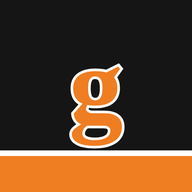
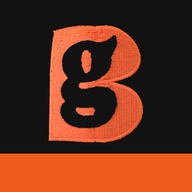
실제 모자 로고로 앱 아이콘·팀 마크 교체
Claude-Session: https://claude.ai/code/session_01MiU2bxi9p7TMxbirvSDMuK

diff --git a/glo.html b/glo.html
@@ -156,7 +156,7 @@ body.self .olg{border-radius:8px}
 </main>
 <script>
 {
-const D={"ext": {"박민수(13)": ["29", "19", "12", "10", "3", "8", "2", "3", "2.67", "0", "0", "0", "0", "3", "0"], "김종원(7)": ["37", "28", "17", "11", "19", "9", "0", "3", "3.00", "0", "0", "0", "0", "5", "0"], "박일우(11)": ["32", "21", "9", "13", "10", "8", "3", "3", "2.67", "0", "0", "0", "0", "2", "0"], "박정일(5)": ["25", "14", "6", "5", "8", "5", "4", "2", "2.50", "0", "2", "0", "0", "0", "0"], "강용진(8)": ["22", "18", "7", "2", "11", "2", "1", "4", "0.50", "0", "1", "0", "0", "2", "0"], "박종원(0)": ["23", "16", "6", "5", "3", "6", "1", "9", "0.67", "0", "0", "0", "1", "1", "0"], "이장욱(10)": ["35", "27", "6", "7", "7", "7", "0", "8", "0.88", "0", "1", "0", "0", "1", "0"], "김태환(30)": ["31", "26", "5", "5", "4", "5", "0", "8", "0.63", "0", "0", "0", "0", "0", "0"], "이준환(26)": ["15", "11", "4", "4", "3", "4", "0", "4", "1.00", "0", "0", "0", "0", "1", "0"], "이상운(35)": ["4", "3", "1", "1", "0", "1", "0", "2", "0.50", "0", "0", "0", "0", "0", "0"], "조의제(44)": ["14", "7", "2", "5", "3", "5", "2", "2", "2.50", "0", "0", "0", "0", "0", "0"], "차현민(14)": ["11", "8", "2", "4", "2", "0", "3", "4", "0.00", "0", "0", "0", "0", "0", "0"], "김태수(77)": ["17", "13", "3", "6", "3", "4", "0", "3", "1.33", "0", "0", "0", "0", "1", "0"], "박정군(18)": ["13", "9", "2", "0", "1", "3", "1", "1", "3.00", "0", "0", "0", "0", "0", "0"], "신동철(12)": ["11", "10", "2", "3", "2", "1", "0", "7", "0.14", "0", "0", "1", "0", "0", "0"], "안승현(25)": ["3", "2", "0", "1", "0", "0", "1", "1", "0.00", "0", "0", "0", "0", "0", "0"], "정도은(6)": ["3", "2", "0", "0", "0", "1", "0", "1", "1.00", "0", "0", "0", "0", "0", "0"]}, "pext": {"김태수(77)": ["4", "4", "0", "0", "176", "158", "609", "49", "19", "0", "1", "0"], "정도은(6)": ["2", "1", "1", "0", "68", "47", "277", "14", "5", "0", "0", "0"], "박민수(13)": ["0", "0", "0", "0", "14", "11", "49", "4", "4", "0", "0", "0"], "강용진(8)": ["0", "0", "0", "0", "5", "5", "16", "2", "2", "0", "0", "0"], "차현민(14)": ["0", "0", "0", "0", "8", "6", "28", "6", "5", "1", "0", "0"]}, "logo": "icon-192.png", "title": "글로베어스 선수 기록", "mode": "pre", "inn": "", "opp": "글로베어스", "self": true, "sub": "2026 시즌 타자·투수 기록과 타구 분포 · 게임원 공식 기록 기준", "basis": "데이터: 게임원 글로베어스 2026 시즌 전체 기록 12경기 · 2026.11.27 수집", "orderLabel": "게임원 기록 순", "raw": "박민수(13)|우투우타|10|0.632|0.759|0.842|1.601|4|0|0|15|AFLcIIFDFLLZALU\n김종원(7)|우투우타|12|0.607|0.703|1.000|1.703|5|0|2|9|oAZZ5RZrDzArofzZFrEfDL\n박일우(11)|우투우타|11|0.429|0.625|0.619|1.244|4|0|0|10|cLEDDfzDFFDXZLA\n박정일(5)|좌투좌타|9|0.429|0.600|0.571|1.171|2|0|0|3|occcIrrFczrzt\n강용진(8)|우투우타|7|0.389|0.455|0.611|1.066|2|1|0|2|YotFrIIIwLLLX\n박종원(0)|우투우타|9|0.375|0.565|0.438|1.003|1|0|0|5|ZrfZFF\n이장욱(10)|우투우타|12|0.222|0.371|0.259|0.630|1|0|0|3|FFEFrXDIErLXIcF\n김태환(30)|우투우타|12|0.192|0.323|0.192|0.515|0|0|0|5|rXortrFDDXrAsr\n이준환(26)|우투우타|5|0.364|0.533|0.636|1.169|1|1|0|1|tEDzZDL\n이상운(35)|우투우타|2|0.333|0.500|0.333|0.833|0|0|0|0|A\n조의제(44)||6|0.286|0.643|0.286|0.929|0|0|0|1|FrAE\n차현민(14)|우투우타|4|0.250|0.455|0.375|0.830|1|0|0|4|ZrL\n김태수(77)|우투우타|6|0.231|0.412|0.231|0.643|0|0|0|1|IEZFDFD\n박정군(18)|좌투좌타|6|0.222|0.462|0.222|0.684|0|0|0|1|XDrrtXr\n신동철(12)||8|0.200|0.273|0.200|0.473|0|0|0|2|FDZ\n안승현(25)|우투우타|1|0.000|0.333|0.000|0.333|0|0|0|0|\n정도은(6)|우투우타|1|0.000|0.333|0.000|0.333|0|0|0|0|c", "roster": [{"o": "", "pos": "중", "nm": "박민수(13)", "memo": "주 타순 1번(7회) · 최근 5경기 4회 출전"}, {"o": "", "pos": "유", "nm": "김종원(7)", "memo": "주 타순 3번(12회) · 최근 5경기 5회 출전"}, {"o": "", "pos": "포", "nm": "박일우(11)", "memo": "주 타순 2번(9회) · 최근 5경기 5회 출전"}, {"o": "", "pos": "一", "nm": "박정일(5)", "memo": "주 타순 4번(9회) · 최근 5경기 5회 출전"}, {"o": "", "pos": "좌", "nm": "강용진(8)", "memo": "주 타순 5번(5회) · 최근 5경기 5회 출전"}, {"o": "", "pos": "좌", "nm": "박종원(0)", "memo": "주 타순 5번(3회) · 최근 5경기 4회 출전"}, {"o": "", "pos": "二", "nm": "이장욱(10)", "memo": "주 타순 6번(6회) · 최근 5경기 5회 출전"}, {"o": "", "pos": "지", "nm": "김태환(30)", "memo": "주 타순 8번(5회) · 최근 5경기 5회 출전"}, {"o": "", "pos": "포", "nm": "이준환(26)", "memo": "주 타순 7번(2회) · 최근 5경기 1회 출전"}, {"o": "", "pos": "중", "nm": "조의제(44)", "memo": "주 타순 6번(3회) · 최근 5경기 1회 출전"}, {"o": "", "pos": "중", "nm": "차현민(14)", "memo": "주 타순 1번(3회) · 최근 5경기 2회 출전"}, {"o": "", "pos": "三", "nm": "김태수(77)", "memo": "주 타순 7번(2회) · 최근 5경기 3회 출전"}, {"o": "", "pos": "우", "nm": "박정군(18)", "memo": "주 타순 8번(3회) · 최근 5경기 3회 출전"}, {"o": "", "pos": "지", "nm": "신동철(12)", "memo": "주 타순 9번(3회) · 최근 5경기 1회 출전"}, {"o": "", "pos": "三", "nm": "정도은(6)", "memo": "주 타순 8번(1회) · 최근 5경기 1회 출전"}, {"o": "", "pos": "좌", "nm": "이상운(35)", "memo": "주 타순 9번(2회) · 최근 5경기 0회 출전"}, {"o": "", "pos": "중", "nm": "안승현(25)", "memo": "주 타순 1번(1회) · 최근 5경기 0회 출전"}], "pit": [{"nm": "김태수(77)", "role": "('26) 10경기", "ERA": "4.34", "G": 10, "IP": "30.2", "H": 64, "HR": 3, "BB": 13, "HBP": 4, "SO": 40, "WHIP": "2.51", "OAVG": "0.405", "K7": "9.13"}, {"nm": "정도은(6)", "role": "('26) 5경기", "ERA": "2.39", "G": 5, "IP": "14.2", "H": 12, "HR": 0, "BB": 15, "HBP": 3, "SO": 19, "WHIP": "1.84", "OAVG": "0.255", "K7": "9.07"}, {"nm": "박민수(13)", "role": "('26) 2경기", "ERA": "12.02", "G": 2, "IP": "2.1", "H": 4, "HR": 1, "BB": 3, "HBP": 0, "SO": 4, "WHIP": "3.00", "OAVG": "0.364", "K7": "12.00"}, {"nm": "강용진(8)", "role": "('26) 1경기", "ERA": "21.21", "G": 1, "IP": "0.2", "H": 4, "HR": 0, "BB": 0, "HBP": 0, "SO": 1, "WHIP": "6.06", "OAVG": "0.800", "K7": "10.50"}, {"nm": "차현민(14)", "role": "('26) 1경기", "ERA": "106.06", "G": 1, "IP": "0.1", "H": 5, "HR": 0, "BB": 2, "HBP": 0, "SO": 0, "WHIP": "21.21", "OAVG": "0.833", "K7": "0.00"}], "h2h": [], "links": [{"label": "팀 홈", "href": "https://www.gameone.kr/club/?club_idx=25486"}, {"label": "리그 홈", "href": "https://www.gameone.kr/league/?lig_idx=10894"}], "games": [{"href": "index.html", "label": "2027 경기 일정 전체"}, {"href": "swains.html", "md": "1/16", "wd": "14:00", "ts": "2027-01-16T14:00:00+09:00", "vn": "고", "label": "스웨인즈", "logo": "https://file.gameone.kr/symbol/club/20160106090534_083_thumb.png"}, {"href": "sbastards.html", "md": "1/23", "wd": "12:00", "ts": "2027-01-23T12:00:00+09:00", "vn": "고", "label": "S. Bastards", "logo": "https://file.gameone.kr/symbol/club/20261125131838_582_thumb.png"}, {"href": "dasl.html", "md": "2/20", "wd": "17:00", "ts": "2027-02-20T17:00:00+09:00", "vn": "고", "label": "다슬기스 YB", "logo": "https://file.gameone.kr/symbol/club/symbol8666.jpg"}, {"href": "swains.html", "md": "3/6", "wd": "17:00", "ts": "2027-03-06T17:00:00+09:00", "vn": "중", "label": "스웨인즈", "logo": "https://file.gameone.kr/symbol/club/20160106090534_083_thumb.png"}, {"href": "kartel.html", "md": "3/13", "wd": "17:00", "ts": "2027-03-13T17:00:00+09:00", "vn": "중", "label": "카르텔즈", "logo": "https://file.gameone.kr/symbol/club/20230216235745_171_thumb.png"}, {"href": "chicago2.html", "md": "4/3", "wd": "17:00", "ts": "2027-04-03T17:00:00+09:00", "vn": "고", "label": "시카고컵스2", "logo": ""}, {"href": "gyb.html", "md": "4/24", "wd": "07:00", "ts": "2027-04-24T07:00:00+09:00", "vn": "중", "label": "GYB", "logo": "https://file.gameone.kr/symbol/club/20251226142734_080_thumb.png"}, {"href": "gamb.html", "md": "5/1", "wd": "07:00", "ts": "2027-05-01T07:00:00+09:00", "vn": "고", "label": "놀음꾼들(Gamebler's)", "logo": "https://file.gameone.kr/symbol/club/20230618141746_509_thumb.gif"}, {"href": "chicago2.html", "md": "5/8", "wd": "13:00", "ts": "2027-05-08T13:00:00+09:00", "vn": "고", "label": "시카고컵스2", "logo": ""}, {"href": "mav.html", "md": "5/29", "wd": "13:00", "ts": "2027-05-29T13:00:00+09:00", "vn": "고", "label": "Mavericks", "logo": "https://file.gameone.kr/symbol/club/20230124223319_034_thumb.png"}, {"href": "bugs.html", "md": "6/5", "wd": "07:00", "ts": "2027-06-05T07:00:00+09:00", "vn": "중", "label": "벅스", "logo": "https://file.gameone.kr/symbol/club/20250501155303_022_thumb.png"}, {"href": "bok.html", "md": "6/12", "wd": "07:00", "ts": "2027-06-12T07:00:00+09:00", "vn": "중", "label": "한국은행 야구부", "logo": "https://file.gameone.kr/symbol/club/symbol17080.jpg"}, {"href": "glo.html", "label": "글로베어스 선수 기록"}, {"href": "sample.html", "label": "샘플 · 라인업 반영 화면"}, {"href": "live07.html", "label": "● 라이브 11.28 07:00 사구홀릭", "live": true, "lmd": "11/28", "lwd": "07:00", "lop": "사구홀릭 vs 놀음꾼들", "lus": "사구홀릭", "logo": "https://file.gameone.kr/symbol/club/symbol9444.jpg"}, {"href": "live13.html", "label": "● 라이브 11.28 13:00 RED ONE", "live": true, "lmd": "11/28", "lwd": "13:00", "lop": "RED ONE vs 놀음꾼들", "lus": "RED ONE", "logo": "https://file.gameone.kr/symbol/club/20231210211054_417_thumb.jpg"}, {"href": "live15.html", "label": "● 라이브 11.28 15:00 사구홀릭", "live": true, "lmd": "11/28", "lwd": "15:00", "lop": "사구홀릭 vs 놀음꾼들", "lus": "사구홀릭", "logo": "https://file.gameone.kr/symbol/club/symbol9444.jpg"}]};
+const D={"ext": {"박민수(13)": ["29", "19", "12", "10", "3", "8", "2", "3", "2.67", "0", "0", "0", "0", "3", "0"], "김종원(7)": ["37", "28", "17", "11", "19", "9", "0", "3", "3.00", "0", "0", "0", "0", "5", "0"], "박일우(11)": ["32", "21", "9", "13", "10", "8", "3", "3", "2.67", "0", "0", "0", "0", "2", "0"], "박정일(5)": ["25", "14", "6", "5", "8", "5", "4", "2", "2.50", "0", "2", "0", "0", "0", "0"], "강용진(8)": ["22", "18", "7", "2", "11", "2", "1", "4", "0.50", "0", "1", "0", "0", "2", "0"], "박종원(0)": ["23", "16", "6", "5", "3", "6", "1", "9", "0.67", "0", "0", "0", "1", "1", "0"], "이장욱(10)": ["35", "27", "6", "7", "7", "7", "0", "8", "0.88", "0", "1", "0", "0", "1", "0"], "김태환(30)": ["31", "26", "5", "5", "4", "5", "0", "8", "0.63", "0", "0", "0", "0", "0", "0"], "이준환(26)": ["15", "11", "4", "4", "3", "4", "0", "4", "1.00", "0", "0", "0", "0", "1", "0"], "이상운(35)": ["4", "3", "1", "1", "0", "1", "0", "2", "0.50", "0", "0", "0", "0", "0", "0"], "조의제(44)": ["14", "7", "2", "5", "3", "5", "2", "2", "2.50", "0", "0", "0", "0", "0", "0"], "차현민(14)": ["11", "8", "2", "4", "2", "0", "3", "4", "0.00", "0", "0", "0", "0", "0", "0"], "김태수(77)": ["17", "13", "3", "6", "3", "4", "0", "3", "1.33", "0", "0", "0", "0", "1", "0"], "박정군(18)": ["13", "9", "2", "0", "1", "3", "1", "1", "3.00", "0", "0", "0", "0", "0", "0"], "신동철(12)": ["11", "10", "2", "3", "2", "1", "0", "7", "0.14", "0", "0", "1", "0", "0", "0"], "안승현(25)": ["3", "2", "0", "1", "0", "0", "1", "1", "0.00", "0", "0", "0", "0", "0", "0"], "정도은(6)": ["3", "2", "0", "0", "0", "1", "0", "1", "1.00", "0", "0", "0", "0", "0", "0"]}, "pext": {"김태수(77)": ["4", "4", "0", "0", "176", "158", "609", "49", "19", "0", "1", "0"], "정도은(6)": ["2", "1", "1", "0", "68", "47", "277", "14", "5", "0", "0", "0"], "박민수(13)": ["0", "0", "0", "0", "14", "11", "49", "4", "4", "0", "0", "0"], "강용진(8)": ["0", "0", "0", "0", "5", "5", "16", "2", "2", "0", "0", "0"], "차현민(14)": ["0", "0", "0", "0", "8", "6", "28", "6", "5", "1", "0", "0"]}, "logo": "gmark.png", "title": "글로베어스 선수 기록", "mode": "pre", "inn": "", "opp": "글로베어스", "self": true, "sub": "2026 시즌 타자·투수 기록과 타구 분포 · 게임원 공식 기록 기준", "basis": "데이터: 게임원 글로베어스 2026 시즌 전체 기록 12경기 · 2026.11.27 수집", "orderLabel": "게임원 기록 순", "raw": "박민수(13)|우투우타|10|0.632|0.759|0.842|1.601|4|0|0|15|AFLcIIFDFLLZALU\n김종원(7)|우투우타|12|0.607|0.703|1.000|1.703|5|0|2|9|oAZZ5RZrDzArofzZFrEfDL\n박일우(11)|우투우타|11|0.429|0.625|0.619|1.244|4|0|0|10|cLEDDfzDFFDXZLA\n박정일(5)|좌투좌타|9|0.429|0.600|0.571|1.171|2|0|0|3|occcIrrFczrzt\n강용진(8)|우투우타|7|0.389|0.455|0.611|1.066|2|1|0|2|YotFrIIIwLLLX\n박종원(0)|우투우타|9|0.375|0.565|0.438|1.003|1|0|0|5|ZrfZFF\n이장욱(10)|우투우타|12|0.222|0.371|0.259|0.630|1|0|0|3|FFEFrXDIErLXIcF\n김태환(30)|우투우타|12|0.192|0.323|0.192|0.515|0|0|0|5|rXortrFDDXrAsr\n이준환(26)|우투우타|5|0.364|0.533|0.636|1.169|1|1|0|1|tEDzZDL\n이상운(35)|우투우타|2|0.333|0.500|0.333|0.833|0|0|0|0|A\n조의제(44)||6|0.286|0.643|0.286|0.929|0|0|0|1|FrAE\n차현민(14)|우투우타|4|0.250|0.455|0.375|0.830|1|0|0|4|ZrL\n김태수(77)|우투우타|6|0.231|0.412|0.231|0.643|0|0|0|1|IEZFDFD\n박정군(18)|좌투좌타|6|0.222|0.462|0.222|0.684|0|0|0|1|XDrrtXr\n신동철(12)||8|0.200|0.273|0.200|0.473|0|0|0|2|FDZ\n안승현(25)|우투우타|1|0.000|0.333|0.000|0.333|0|0|0|0|\n정도은(6)|우투우타|1|0.000|0.333|0.000|0.333|0|0|0|0|c", "roster": [{"o": "", "pos": "중", "nm": "박민수(13)", "memo": "주 타순 1번(7회) · 최근 5경기 4회 출전"}, {"o": "", "pos": "유", "nm": "김종원(7)", "memo": "주 타순 3번(12회) · 최근 5경기 5회 출전"}, {"o": "", "pos": "포", "nm": "박일우(11)", "memo": "주 타순 2번(9회) · 최근 5경기 5회 출전"}, {"o": "", "pos": "一", "nm": "박정일(5)", "memo": "주 타순 4번(9회) · 최근 5경기 5회 출전"}, {"o": "", "pos": "좌", "nm": "강용진(8)", "memo": "주 타순 5번(5회) · 최근 5경기 5회 출전"}, {"o": "", "pos": "좌", "nm": "박종원(0)", "memo": "주 타순 5번(3회) · 최근 5경기 4회 출전"}, {"o": "", "pos": "二", "nm": "이장욱(10)", "memo": "주 타순 6번(6회) · 최근 5경기 5회 출전"}, {"o": "", "pos": "지", "nm": "김태환(30)", "memo": "주 타순 8번(5회) · 최근 5경기 5회 출전"}, {"o": "", "pos": "포", "nm": "이준환(26)", "memo": "주 타순 7번(2회) · 최근 5경기 1회 출전"}, {"o": "", "pos": "중", "nm": "조의제(44)", "memo": "주 타순 6번(3회) · 최근 5경기 1회 출전"}, {"o": "", "pos": "중", "nm": "차현민(14)", "memo": "주 타순 1번(3회) · 최근 5경기 2회 출전"}, {"o": "", "pos": "三", "nm": "김태수(77)", "memo": "주 타순 7번(2회) · 최근 5경기 3회 출전"}, {"o": "", "pos": "우", "nm": "박정군(18)", "memo": "주 타순 8번(3회) · 최근 5경기 3회 출전"}, {"o": "", "pos": "지", "nm": "신동철(12)", "memo": "주 타순 9번(3회) · 최근 5경기 1회 출전"}, {"o": "", "pos": "三", "nm": "정도은(6)", "memo": "주 타순 8번(1회) · 최근 5경기 1회 출전"}, {"o": "", "pos": "좌", "nm": "이상운(35)", "memo": "주 타순 9번(2회) · 최근 5경기 0회 출전"}, {"o": "", "pos": "중", "nm": "안승현(25)", "memo": "주 타순 1번(1회) · 최근 5경기 0회 출전"}], "pit": [{"nm": "김태수(77)", "role": "('26) 10경기", "ERA": "4.34", "G": 10, "IP": "30.2", "H": 64, "HR": 3, "BB": 13, "HBP": 4, "SO": 40, "WHIP": "2.51", "OAVG": "0.405", "K7": "9.13"}, {"nm": "정도은(6)", "role": "('26) 5경기", "ERA": "2.39", "G": 5, "IP": "14.2", "H": 12, "HR": 0, "BB": 15, "HBP": 3, "SO": 19, "WHIP": "1.84", "OAVG": "0.255", "K7": "9.07"}, {"nm": "박민수(13)", "role": "('26) 2경기", "ERA": "12.02", "G": 2, "IP": "2.1", "H": 4, "HR": 1, "BB": 3, "HBP": 0, "SO": 4, "WHIP": "3.00", "OAVG": "0.364", "K7": "12.00"}, {"nm": "강용진(8)", "role": "('26) 1경기", "ERA": "21.21", "G": 1, "IP": "0.2", "H": 4, "HR": 0, "BB": 0, "HBP": 0, "SO": 1, "WHIP": "6.06", "OAVG": "0.800", "K7": "10.50"}, {"nm": "차현민(14)", "role": "('26) 1경기", "ERA": "106.06", "G": 1, "IP": "0.1", "H": 5, "HR": 0, "BB": 2, "HBP": 0, "SO": 0, "WHIP": "21.21", "OAVG": "0.833", "K7": "0.00"}], "h2h": [], "links": [{"label": "팀 홈", "href": "https://www.gameone.kr/club/?club_idx=25486"}, {"label": "리그 홈", "href": "https://www.gameone.kr/league/?lig_idx=10894"}], "games": [{"href": "index.html", "label": "2027 경기 일정 전체"}, {"href": "swains.html", "md": "1/16", "wd": "14:00", "ts": "2027-01-16T14:00:00+09:00", "vn": "고", "label": "스웨인즈", "logo": "https://file.gameone.kr/symbol/club/20160106090534_083_thumb.png"}, {"href": "sbastards.html", "md": "1/23", "wd": "12:00", "ts": "2027-01-23T12:00:00+09:00", "vn": "고", "label": "S. Bastards", "logo": "https://file.gameone.kr/symbol/club/20261125131838_582_thumb.png"}, {"href": "dasl.html", "md": "2/20", "wd": "17:00", "ts": "2027-02-20T17:00:00+09:00", "vn": "고", "label": "다슬기스 YB", "logo": "https://file.gameone.kr/symbol/club/symbol8666.jpg"}, {"href": "swains.html", "md": "3/6", "wd": "17:00", "ts": "2027-03-06T17:00:00+09:00", "vn": "중", "label": "스웨인즈", "logo": "https://file.gameone.kr/symbol/club/20160106090534_083_thumb.png"}, {"href": "kartel.html", "md": "3/13", "wd": "17:00", "ts": "2027-03-13T17:00:00+09:00", "vn": "중", "label": "카르텔즈", "logo": "https://file.gameone.kr/symbol/club/20230216235745_171_thumb.png"}, {"href": "chicago2.html", "md": "4/3", "wd": "17:00", "ts": "2027-04-03T17:00:00+09:00", "vn": "고", "label": "시카고컵스2", "logo": ""}, {"href": "gyb.html", "md": "4/24", "wd": "07:00", "ts": "2027-04-24T07:00:00+09:00", "vn": "중", "label": "GYB", "logo": "https://file.gameone.kr/symbol/club/20251226142734_080_thumb.png"}, {"href": "gamb.html", "md": "5/1", "wd": "07:00", "ts": "2027-05-01T07:00:00+09:00", "vn": "고", "label": "놀음꾼들(Gamebler's)", "logo": "https://file.gameone.kr/symbol/club/20230618141746_509_thumb.gif"}, {"href": "chicago2.html", "md": "5/8", "wd": "13:00", "ts": "2027-05-08T13:00:00+09:00", "vn": "고", "label": "시카고컵스2", "logo": ""}, {"href": "mav.html", "md": "5/29", "wd": "13:00", "ts": "2027-05-29T13:00:00+09:00", "vn": "고", "label": "Mavericks", "logo": "https://file.gameone.kr/symbol/club/20230124223319_034_thumb.png"}, {"href": "bugs.html", "md": "6/5", "wd": "07:00", "ts": "2027-06-05T07:00:00+09:00", "vn": "중", "label": "벅스", "logo": "https://file.gameone.kr/symbol/club/20250501155303_022_thumb.png"}, {"href": "bok.html", "md": "6/12", "wd": "07:00", "ts": "2027-06-12T07:00:00+09:00", "vn": "중", "label": "한국은행 야구부", "logo": "https://file.gameone.kr/symbol/club/symbol17080.jpg"}, {"href": "glo.html", "label": "글로베어스 선수 기록"}, {"href": "sample.html", "label": "샘플 · 라인업 반영 화면"}, {"href": "live07.html", "label": "● 라이브 11.28 07:00 사구홀릭", "live": true, "lmd": "11/28", "lwd": "07:00", "lop": "사구홀릭 vs 놀음꾼들", "lus": "사구홀릭", "logo": "https://file.gameone.kr/symbol/club/symbol9444.jpg"}, {"href": "live13.html", "label": "● 라이브 11.28 13:00 RED ONE", "live": true, "lmd": "11/28", "lwd": "13:00", "lop": "RED ONE vs 놀음꾼들", "lus": "RED ONE", "logo": "https://file.gameone.kr/symbol/club/20231210211054_417_thumb.jpg"}, {"href": "live15.html", "label": "● 라이브 11.28 15:00 사구홀릭", "live": true, "lmd": "11/28", "lwd": "15:00", "lop": "사구홀릭 vs 놀음꾼들", "lus": "사구홀릭", "logo": "https://file.gameone.kr/symbol/club/symbol9444.jpg"}]};
 const A='ABCDEFGHIJKLMNOPQRSTUVWXYZabcdefghijklmnopqrstuvwxyz0123456789',TY=['s','x','h','o','e'];
 const P={};
 D.raw.split('\n').forEach(l=>{const f=l.split('|');P[f[0]]={nm:f[0],bt:f[1],G:+f[2],AVG:f[3],OBP:f[4],SLG:f[5],OPS:f[6],D:+f[7],T:+f[8],HR:+f[9],SB:+f[10],extra:f[12]||'',balls:[...(f[11]||'')].map(ch=>{const i=A.indexOf(ch);return{dir:Math.floor(i/20),depth:Math.floor((i%20)/5),t:TY[i%5]}})}});
@@ -270,7 +270,7 @@ document.getElementById('h2h').innerHTML=(D.h2h||[]).length?D.h2h.map(g=>{const 
  return`<details><summary><span>${esc(g.date)} ${esc(g.place)} · ${esc(g.score)}<span class="res ${rc}">${esc(g.result)}</span></span></summary><div class="dt">
  <div class="sb"><table><thead><tr>${hd}</tr></thead><tbody>${rows}</tbody></table></div>
  ${pitT(g.pitch,D.opp+' 투수')}${batT(g.bat,D.opp+' 타자')}${g.ourpitch?pitT(g.ourpitch,'글로베어스 투수'):''}${g.ourbat?batT(g.ourbat,'글로베어스 타자'):''}</div></details>`}).join(''):`<div class="pc note" style="margin:0">2026년 맞대결 기록이 없습니다.</div>`;
-if(D.self){document.body.classList.add('self');const ys=document.createElement('div');ys.className='yseg';ys.innerHTML=`<button disabled aria-pressed="false">27년 · 시즌 시작 후 추가</button><button aria-pressed="true">26년 기록</button>`;document.getElementById('glinks').after(ys);document.getElementById('pitHead').textContent='글로베어스 투수 26년 기록';document.getElementById('fullHead').innerHTML=`글로베어스 타자 26년 기록 <span class="cnt">${esc(D.orderLabel||'')} · ${(D.roster||[]).length}명</span>`;['h2hHead','h2h','sbHead','sbBox','liveOpp'].forEach(i=>{const e=document.getElementById(i);if(e)e.hidden=true});const st=document.createElement('style');st.textContent='.atk{display:none}';document.head.appendChild(st);document.getElementById('title').textContent='글로베어스 선수 기록'}
+if(D.self){document.body.classList.add('self');const ys=document.createElement('div');ys.className='yseg';ys.innerHTML=`<button disabled aria-pressed="false">27년 · 시즌 시작 후 추가</button><button aria-pressed="true">26년 기록</button>`;document.getElementById('glinks').after(ys);document.getElementById('pitHead').textContent=(D.teamName||'글로베어스')+' 투수 26년 기록';document.getElementById('fullHead').innerHTML=`${esc(D.teamName||'글로베어스')} 타자 26년 기록 <span class="cnt">${esc(D.orderLabel||'')} · ${(D.roster||[]).length}명</span>`;['h2hHead','h2h','sbHead','sbBox','liveOpp'].forEach(i=>{const e=document.getElementById(i);if(e)e.hidden=true});const st=document.createElement('style');st.textContent='.atk{display:none}';document.head.appendChild(st);document.getElementById('title').textContent=(D.teamName||'글로베어스')+' 선수 기록'}
 if(typeof LV!=='undefined'&&LV&&!D.feed)liveAll();
 if(D.feed){(()=>{
 const F=D.feed,OPPRE=new RegExp(F.oppRe),$=id=>document.getElementById(id),GO='https://www.gameone.kr';

diff --git a/index.html b/index.html
@@ -29,7 +29,7 @@ h2.sec{font-size:16px;margin:6px 2px 8px}.ib{display:inline-grid;place-items:cen
 <header><img class="hlogo" src="logo.png" alt="글로베어스" width="52" height="57"><div><h1>글로베어스 2027 경기 일정 · 상대 전력분석</h1><p>서울 성남고리그 토요리그(C조)</p></div><div class="hl"><a href="https://www.gameone.kr/club/?club_idx=25486" target="_blank" rel="noopener">우리 팀</a><a href="https://www.gameone.kr/club/info/schedule/table?club_idx=25486&season=2027" target="_blank" rel="noopener">2027 일정</a><a href="https://www.gameone.kr/league/?lig_idx=10894" target="_blank" rel="noopener">리그 홈</a></div><div style="display:flex;gap:6px"><button class="ib" id="thm" aria-label="화면 밝기 전환">☀</button><button class="ib" id="fsb" aria-label="전체화면 전환">⤢</button></div></header>
 <main>
 
-<a class="team" href="glo.html"><svg class="gcap" viewBox="0 0 48 48" width="46" height="46" role="img" aria-label="글로베어스 G"><rect width="48" height="48" rx="12" fill="#151515"/><text x="24" y="33" text-anchor="middle" font-family="Georgia,serif" font-weight="700" font-size="34" fill="#ef7d22" stroke="#fff" stroke-width="1.6" paint-order="stroke">g</text></svg><div style="white-space:nowrap;overflow:hidden;text-overflow:ellipsis;min-width:0"><b>글로베어스 선수 기록</b><span style="margin-left:18px;padding-left:14px;border-left:1px solid light-dark(#e3b48a,#7a5230)">&#39;26 시즌 기준 · 투수 5명 · 타자 17명</span></div><span class="go">열기 ›</span></a>
+<a class="team" href="glo.html"><img class="gcap" src="gmark.png" alt="글로베어스 g" width="46" height="46"><div style="white-space:nowrap;overflow:hidden;text-overflow:ellipsis;min-width:0"><b>글로베어스 선수 기록</b><span style="margin-left:18px;padding-left:14px;border-left:1px solid light-dark(#e3b48a,#7a5230)">&#39;26 시즌 기준 · 투수 5명 · 타자 17명</span></div><span class="go">열기 ›</span></a>
 <a class="livec" href="live07.html"><span class="tst">Test</span><span class="lvb"><i></i>LIVE</span><span class="lt2"><b>11.28(토) 07:00</b> 사구홀릭 vs 놀음꾼들<small style="font-size:11.5px;margin-left:5px;opacity:.85">(우리팀으로 가정)</small></span><span class="lgo">보기 ›</span></a><a class="livec" href="live13.html"><span class="tst">Test</span><span class="lvb"><i></i>LIVE</span><span class="lt2"><b>11.28(토) 13:00</b> RED ONE vs 놀음꾼들<small style="font-size:11.5px;margin-left:5px;opacity:.85">(우리팀으로 가정)</small></span><span class="lgo">보기 ›</span></a><a class="livec" href="live15.html"><span class="tst">Test</span><span class="lvb"><i></i>LIVE</span><span class="lt2"><b>11.28(토) 15:00</b> 사구홀릭 vs 놀음꾼들<small style="font-size:11.5px;margin-left:5px;opacity:.85">(우리팀으로 가정)</small></span><span class="lgo">보기 ›</span></a>
 <h2 class="sec">다가올 경기 <span style="font-weight:400;font-size:12.5px;color:var(--sub)">게임원 2027 일정 기준(2026.11.27 수집) · 리그 중 변경될 수 있음</span></h2>
 <div class="wrap"><table><thead><tr><th>일시</th><th>구장</th><th>게임 <span style="font-weight:400;font-size:12.5px">(선공 vs 후공)</span></th><th>전력분석</th></tr></thead><tbody>

diff --git a/bok.html b/bok.html
@@ -270,7 +270,7 @@ document.getElementById('h2h').innerHTML=(D.h2h||[]).length?D.h2h.map(g=>{const 
  return`<details><summary><span>${esc(g.date)} ${esc(g.place)} · ${esc(g.score)}<span class="res ${rc}">${esc(g.result)}</span></span></summary><div class="dt">
  <div class="sb"><table><thead><tr>${hd}</tr></thead><tbody>${rows}</tbody></table></div>
  ${pitT(g.pitch,D.opp+' 투수')}${batT(g.bat,D.opp+' 타자')}${g.ourpitch?pitT(g.ourpitch,'글로베어스 투수'):''}${g.ourbat?batT(g.ourbat,'글로베어스 타자'):''}</div></details>`}).join(''):`<div class="pc note" style="margin:0">2026년 맞대결 기록이 없습니다.</div>`;
-if(D.self){document.body.classList.add('self');const ys=document.createElement('div');ys.className='yseg';ys.innerHTML=`<button disabled aria-pressed="false">27년 · 시즌 시작 후 추가</button><button aria-pressed="true">26년 기록</button>`;document.getElementById('glinks').after(ys);document.getElementById('pitHead').textContent='글로베어스 투수 26년 기록';document.getElementById('fullHead').innerHTML=`글로베어스 타자 26년 기록 <span class="cnt">${esc(D.orderLabel||'')} · ${(D.roster||[]).length}명</span>`;['h2hHead','h2h','sbHead','sbBox','liveOpp'].forEach(i=>{const e=document.getElementById(i);if(e)e.hidden=true});const st=document.createElement('style');st.textContent='.atk{display:none}';document.head.appendChild(st);document.getElementById('title').textContent='글로베어스 선수 기록'}
+if(D.self){document.body.classList.add('self');const ys=document.createElement('div');ys.className='yseg';ys.innerHTML=`<button disabled aria-pressed="false">27년 · 시즌 시작 후 추가</button><button aria-pressed="true">26년 기록</button>`;document.getElementById('glinks').after(ys);document.getElementById('pitHead').textContent=(D.teamName||'글로베어스')+' 투수 26년 기록';document.getElementById('fullHead').innerHTML=`${esc(D.teamName||'글로베어스')} 타자 26년 기록 <span class="cnt">${esc(D.orderLabel||'')} · ${(D.roster||[]).length}명</span>`;['h2hHead','h2h','sbHead','sbBox','liveOpp'].forEach(i=>{const e=document.getElementById(i);if(e)e.hidden=true});const st=document.createElement('style');st.textContent='.atk{display:none}';document.head.appendChild(st);document.getElementById('title').textContent=(D.teamName||'글로베어스')+' 선수 기록'}
 if(typeof LV!=='undefined'&&LV&&!D.feed)liveAll();
 if(D.feed){(()=>{
 const F=D.feed,OPPRE=new RegExp(F.oppRe),$=id=>document.getElementById(id),GO='https://www.gameone.kr';

diff --git a/bugs.html b/bugs.html
@@ -270,7 +270,7 @@ document.getElementById('h2h').innerHTML=(D.h2h||[]).length?D.h2h.map(g=>{const 
  return`<details><summary><span>${esc(g.date)} ${esc(g.place)} · ${esc(g.score)}<span class="res ${rc}">${esc(g.result)}</span></span></summary><div class="dt">
  <div class="sb"><table><thead><tr>${hd}</tr></thead><tbody>${rows}</tbody></table></div>
  ${pitT(g.pitch,D.opp+' 투수')}${batT(g.bat,D.opp+' 타자')}${g.ourpitch?pitT(g.ourpitch,'글로베어스 투수'):''}${g.ourbat?batT(g.ourbat,'글로베어스 타자'):''}</div></details>`}).join(''):`<div class="pc note" style="margin:0">2026년 맞대결 기록이 없습니다.</div>`;
-if(D.self){document.body.classList.add('self');const ys=document.createElement('div');ys.className='yseg';ys.innerHTML=`<button disabled aria-pressed="false">27년 · 시즌 시작 후 추가</button><button aria-pressed="true">26년 기록</button>`;document.getElementById('glinks').after(ys);document.getElementById('pitHead').textContent='글로베어스 투수 26년 기록';document.getElementById('fullHead').innerHTML=`글로베어스 타자 26년 기록 <span class="cnt">${esc(D.orderLabel||'')} · ${(D.roster||[]).length}명</span>`;['h2hHead','h2h','sbHead','sbBox','liveOpp'].forEach(i=>{const e=document.getElementById(i);if(e)e.hidden=true});const st=document.createElement('style');st.textContent='.atk{display:none}';document.head.appendChild(st);document.getElementById('title').textContent='글로베어스 선수 기록'}
+if(D.self){document.body.classList.add('self');const ys=document.createElement('div');ys.className='yseg';ys.innerHTML=`<button disabled aria-pressed="false">27년 · 시즌 시작 후 추가</button><button aria-pressed="true">26년 기록</button>`;document.getElementById('glinks').after(ys);document.getElementById('pitHead').textContent=(D.teamName||'글로베어스')+' 투수 26년 기록';document.getElementById('fullHead').innerHTML=`${esc(D.teamName||'글로베어스')} 타자 26년 기록 <span class="cnt">${esc(D.orderLabel||'')} · ${(D.roster||[]).length}명</span>`;['h2hHead','h2h','sbHead','sbBox','liveOpp'].forEach(i=>{const e=document.getElementById(i);if(e)e.hidden=true});const st=document.createElement('style');st.textContent='.atk{display:none}';document.head.appendChild(st);document.getElementById('title').textContent=(D.teamName||'글로베어스')+' 선수 기록'}
 if(typeof LV!=='undefined'&&LV&&!D.feed)liveAll();
 if(D.feed){(()=>{
 const F=D.feed,OPPRE=new RegExp(F.oppRe),$=id=>document.getElementById(id),GO='https://www.gameone.kr';

diff --git a/chicago2.html b/chicago2.html
@@ -270,7 +270,7 @@ document.getElementById('h2h').innerHTML=(D.h2h||[]).length?D.h2h.map(g=>{const 
  return`<details><summary><span>${esc(g.date)} ${esc(g.place)} · ${esc(g.score)}<span class="res ${rc}">${esc(g.result)}</span></span></summary><div class="dt">
  <div class="sb"><table><thead><tr>${hd}</tr></thead><tbody>${rows}</tbody></table></div>
  ${pitT(g.pitch,D.opp+' 투수')}${batT(g.bat,D.opp+' 타자')}${g.ourpitch?pitT(g.ourpitch,'글로베어스 투수'):''}${g.ourbat?batT(g.ourbat,'글로베어스 타자'):''}</div></details>`}).join(''):`<div class="pc note" style="margin:0">2026년 맞대결 기록이 없습니다.</div>`;
-if(D.self){document.body.classList.add('self');const ys=document.createElement('div');ys.className='yseg';ys.innerHTML=`<button disabled aria-pressed="false">27년 · 시즌 시작 후 추가</button><button aria-pressed="true">26년 기록</button>`;document.getElementById('glinks').after(ys);document.getElementById('pitHead').textContent='글로베어스 투수 26년 기록';document.getElementById('fullHead').innerHTML=`글로베어스 타자 26년 기록 <span class="cnt">${esc(D.orderLabel||'')} · ${(D.roster||[]).length}명</span>`;['h2hHead','h2h','sbHead','sbBox','liveOpp'].forEach(i=>{const e=document.getElementById(i);if(e)e.hidden=true});const st=document.createElement('style');st.textContent='.atk{display:none}';document.head.appendChild(st);document.getElementById('title').textContent='글로베어스 선수 기록'}
+if(D.self){document.body.classList.add('self');const ys=document.createElement('div');ys.className='yseg';ys.innerHTML=`<button disabled aria-pressed="false">27년 · 시즌 시작 후 추가</button><button aria-pressed="true">26년 기록</button>`;document.getElementById('glinks').after(ys);document.getElementById('pitHead').textContent=(D.teamName||'글로베어스')+' 투수 26년 기록';document.getElementById('fullHead').innerHTML=`${esc(D.teamName||'글로베어스')} 타자 26년 기록 <span class="cnt">${esc(D.orderLabel||'')} · ${(D.roster||[]).length}명</span>`;['h2hHead','h2h','sbHead','sbBox','liveOpp'].forEach(i=>{const e=document.getElementById(i);if(e)e.hidden=true});const st=document.createElement('style');st.textContent='.atk{display:none}';document.head.appendChild(st);document.getElementById('title').textContent=(D.teamName||'글로베어스')+' 선수 기록'}
 if(typeof LV!=='undefined'&&LV&&!D.feed)liveAll();
 if(D.feed){(()=>{
 const F=D.feed,OPPRE=new RegExp(F.oppRe),$=id=>document.getElementById(id),GO='https://www.gameone.kr';

diff --git a/dasl.html b/dasl.html
@@ -270,7 +270,7 @@ document.getElementById('h2h').innerHTML=(D.h2h||[]).length?D.h2h.map(g=>{const 
  return`<details><summary><span>${esc(g.date)} ${esc(g.place)} · ${esc(g.score)}<span class="res ${rc}">${esc(g.result)}</span></span></summary><div class="dt">
  <div class="sb"><table><thead><tr>${hd}</tr></thead><tbody>${rows}</tbody></table></div>
  ${pitT(g.pitch,D.opp+' 투수')}${batT(g.bat,D.opp+' 타자')}${g.ourpitch?pitT(g.ourpitch,'글로베어스 투수'):''}${g.ourbat?batT(g.ourbat,'글로베어스 타자'):''}</div></details>`}).join(''):`<div class="pc note" style="margin:0">2026년 맞대결 기록이 없습니다.</div>`;
-if(D.self){document.body.classList.add('self');const ys=document.createElement('div');ys.className='yseg';ys.innerHTML=`<button disabled aria-pressed="false">27년 · 시즌 시작 후 추가</button><button aria-pressed="true">26년 기록</button>`;document.getElementById('glinks').after(ys);document.getElementById('pitHead').textContent='글로베어스 투수 26년 기록';document.getElementById('fullHead').innerHTML=`글로베어스 타자 26년 기록 <span class="cnt">${esc(D.orderLabel||'')} · ${(D.roster||[]).length}명</span>`;['h2hHead','h2h','sbHead','sbBox','liveOpp'].forEach(i=>{const e=document.getElementById(i);if(e)e.hidden=true});const st=document.createElement('style');st.textContent='.atk{display:none}';document.head.appendChild(st);document.getElementById('title').textContent='글로베어스 선수 기록'}
+if(D.self){document.body.classList.add('self');const ys=document.createElement('div');ys.className='yseg';ys.innerHTML=`<button disabled aria-pressed="false">27년 · 시즌 시작 후 추가</button><button aria-pressed="true">26년 기록</button>`;document.getElementById('glinks').after(ys);document.getElementById('pitHead').textContent=(D.teamName||'글로베어스')+' 투수 26년 기록';document.getElementById('fullHead').innerHTML=`${esc(D.teamName||'글로베어스')} 타자 26년 기록 <span class="cnt">${esc(D.orderLabel||'')} · ${(D.roster||[]).length}명</span>`;['h2hHead','h2h','sbHead','sbBox','liveOpp'].forEach(i=>{const e=document.getElementById(i);if(e)e.hidden=true});const st=document.createElement('style');st.textContent='.atk{display:none}';document.head.appendChild(st);document.getElementById('title').textContent=(D.teamName||'글로베어스')+' 선수 기록'}
 if(typeof LV!=='undefined'&&LV&&!D.feed)liveAll();
 if(D.feed){(()=>{
 const F=D.feed,OPPRE=new RegExp(F.oppRe),$=id=>document.getElementById(id),GO='https://www.gameone.kr';

diff --git a/gamb.html b/gamb.html
@@ -270,7 +270,7 @@ document.getElementById('h2h').innerHTML=(D.h2h||[]).length?D.h2h.map(g=>{const 
  return`<details><summary><span>${esc(g.date)} ${esc(g.place)} · ${esc(g.score)}<span class="res ${rc}">${esc(g.result)}</span></span></summary><div class="dt">
  <div class="sb"><table><thead><tr>${hd}</tr></thead><tbody>${rows}</tbody></table></div>
  ${pitT(g.pitch,D.opp+' 투수')}${batT(g.bat,D.opp+' 타자')}${g.ourpitch?pitT(g.ourpitch,'글로베어스 투수'):''}${g.ourbat?batT(g.ourbat,'글로베어스 타자'):''}</div></details>`}).join(''):`<div class="pc note" style="margin:0">2026년 맞대결 기록이 없습니다.</div>`;
-if(D.self){document.body.classList.add('self');const ys=document.createElement('div');ys.className='yseg';ys.innerHTML=`<button disabled aria-pressed="false">27년 · 시즌 시작 후 추가</button><button aria-pressed="true">26년 기록</button>`;document.getElementById('glinks').after(ys);document.getElementById('pitHead').textContent='글로베어스 투수 26년 기록';document.getElementById('fullHead').innerHTML=`글로베어스 타자 26년 기록 <span class="cnt">${esc(D.orderLabel||'')} · ${(D.roster||[]).length}명</span>`;['h2hHead','h2h','sbHead','sbBox','liveOpp'].forEach(i=>{const e=document.getElementById(i);if(e)e.hidden=true});const st=document.createElement('style');st.textContent='.atk{display:none}';document.head.appendChild(st);document.getElementById('title').textContent='글로베어스 선수 기록'}
+if(D.self){document.body.classList.add('self');const ys=document.createElement('div');ys.className='yseg';ys.innerHTML=`<button disabled aria-pressed="false">27년 · 시즌 시작 후 추가</button><button aria-pressed="true">26년 기록</button>`;document.getElementById('glinks').after(ys);document.getElementById('pitHead').textContent=(D.teamName||'글로베어스')+' 투수 26년 기록';document.getElementById('fullHead').innerHTML=`${esc(D.teamName||'글로베어스')} 타자 26년 기록 <span class="cnt">${esc(D.orderLabel||'')} · ${(D.roster||[]).length}명</span>`;['h2hHead','h2h','sbHead','sbBox','liveOpp'].forEach(i=>{const e=document.getElementById(i);if(e)e.hidden=true});const st=document.createElement('style');st.textContent='.atk{display:none}';document.head.appendChild(st);document.getElementById('title').textContent=(D.teamName||'글로베어스')+' 선수 기록'}
 if(typeof LV!=='undefined'&&LV&&!D.feed)liveAll();
 if(D.feed){(()=>{
 const F=D.feed,OPPRE=new RegExp(F.oppRe),$=id=>document.getElementById(id),GO='https://www.gameone.kr';

diff --git a/gyb.html b/gyb.html
@@ -270,7 +270,7 @@ document.getElementById('h2h').innerHTML=(D.h2h||[]).length?D.h2h.map(g=>{const 
  return`<details><summary><span>${esc(g.date)} ${esc(g.place)} · ${esc(g.score)}<span class="res ${rc}">${esc(g.result)}</span></span></summary><div class="dt">
  <div class="sb"><table><thead><tr>${hd}</tr></thead><tbody>${rows}</tbody></table></div>
  ${pitT(g.pitch,D.opp+' 투수')}${batT(g.bat,D.opp+' 타자')}${g.ourpitch?pitT(g.ourpitch,'글로베어스 투수'):''}${g.ourbat?batT(g.ourbat,'글로베어스 타자'):''}</div></details>`}).join(''):`<div class="pc note" style="margin:0">2026년 맞대결 기록이 없습니다.</div>`;
-if(D.self){document.body.classList.add('self');const ys=document.createElement('div');ys.className='yseg';ys.innerHTML=`<button disabled aria-pressed="false">27년 · 시즌 시작 후 추가</button><button aria-pressed="true">26년 기록</button>`;document.getElementById('glinks').after(ys);document.getElementById('pitHead').textContent='글로베어스 투수 26년 기록';document.getElementById('fullHead').innerHTML=`글로베어스 타자 26년 기록 <span class="cnt">${esc(D.orderLabel||'')} · ${(D.roster||[]).length}명</span>`;['h2hHead','h2h','sbHead','sbBox','liveOpp'].forEach(i=>{const e=document.getElementById(i);if(e)e.hidden=true});const st=document.createElement('style');st.textContent='.atk{display:none}';document.head.appendChild(st);document.getElementById('title').textContent='글로베어스 선수 기록'}
+if(D.self){document.body.classList.add('self');const ys=document.createElement('div');ys.className='yseg';ys.innerHTML=`<button disabled aria-pressed="false">27년 · 시즌 시작 후 추가</button><button aria-pressed="true">26년 기록</button>`;document.getElementById('glinks').after(ys);document.getElementById('pitHead').textContent=(D.teamName||'글로베어스')+' 투수 26년 기록';document.getElementById('fullHead').innerHTML=`${esc(D.teamName||'글로베어스')} 타자 26년 기록 <span class="cnt">${esc(D.orderLabel||'')} · ${(D.roster||[]).length}명</span>`;['h2hHead','h2h','sbHead','sbBox','liveOpp'].forEach(i=>{const e=document.getElementById(i);if(e)e.hidden=true});const st=document.createElement('style');st.textContent='.atk{display:none}';document.head.appendChild(st);document.getElementById('title').textContent=(D.teamName||'글로베어스')+' 선수 기록'}
 if(typeof LV!=='undefined'&&LV&&!D.feed)liveAll();
 if(D.feed){(()=>{
 const F=D.feed,OPPRE=new RegExp(F.oppRe),$=id=>document.getElementById(id),GO='https://www.gameone.kr';

diff --git a/kartel.html b/kartel.html
@@ -270,7 +270,7 @@ document.getElementById('h2h').innerHTML=(D.h2h||[]).length?D.h2h.map(g=>{const 
  return`<details><summary><span>${esc(g.date)} ${esc(g.place)} · ${esc(g.score)}<span class="res ${rc}">${esc(g.result)}</span></span></summary><div class="dt">
  <div class="sb"><table><thead><tr>${hd}</tr></thead><tbody>${rows}</tbody></table></div>
  ${pitT(g.pitch,D.opp+' 투수')}${batT(g.bat,D.opp+' 타자')}${g.ourpitch?pitT(g.ourpitch,'글로베어스 투수'):''}${g.ourbat?batT(g.ourbat,'글로베어스 타자'):''}</div></details>`}).join(''):`<div class="pc note" style="margin:0">2026년 맞대결 기록이 없습니다.</div>`;
-if(D.self){document.body.classList.add('self');const ys=document.createElement('div');ys.className='yseg';ys.innerHTML=`<button disabled aria-pressed="false">27년 · 시즌 시작 후 추가</button><button aria-pressed="true">26년 기록</button>`;document.getElementById('glinks').after(ys);document.getElementById('pitHead').textContent='글로베어스 투수 26년 기록';document.getElementById('fullHead').innerHTML=`글로베어스 타자 26년 기록 <span class="cnt">${esc(D.orderLabel||'')} · ${(D.roster||[]).length}명</span>`;['h2hHead','h2h','sbHead','sbBox','liveOpp'].forEach(i=>{const e=document.getElementById(i);if(e)e.hidden=true});const st=document.createElement('style');st.textContent='.atk{display:none}';document.head.appendChild(st);document.getElementById('title').textContent='글로베어스 선수 기록'}
+if(D.self){document.body.classList.add('self');const ys=document.createElement('div');ys.className='yseg';ys.innerHTML=`<button disabled aria-pressed="false">27년 · 시즌 시작 후 추가</button><button aria-pressed="true">26년 기록</button>`;document.getElementById('glinks').after(ys);document.getElementById('pitHead').textContent=(D.teamName||'글로베어스')+' 투수 26년 기록';document.getElementById('fullHead').innerHTML=`${esc(D.teamName||'글로베어스')} 타자 26년 기록 <span class="cnt">${esc(D.orderLabel||'')} · ${(D.roster||[]).length}명</span>`;['h2hHead','h2h','sbHead','sbBox','liveOpp'].forEach(i=>{const e=document.getElementById(i);if(e)e.hidden=true});const st=document.createElement('style');st.textContent='.atk{display:none}';document.head.appendChild(st);document.getElementById('title').textContent=(D.teamName||'글로베어스')+' 선수 기록'}
 if(typeof LV!=='undefined'&&LV&&!D.feed)liveAll();
 if(D.feed){(()=>{
 const F=D.feed,OPPRE=new RegExp(F.oppRe),$=id=>document.getElementById(id),GO='https://www.gameone.kr';

diff --git a/live07.html b/live07.html
@@ -270,7 +270,7 @@ document.getElementById('h2h').innerHTML=(D.h2h||[]).length?D.h2h.map(g=>{const 
  return`<details><summary><span>${esc(g.date)} ${esc(g.place)} · ${esc(g.score)}<span class="res ${rc}">${esc(g.result)}</span></span></summary><div class="dt">
  <div class="sb"><table><thead><tr>${hd}</tr></thead><tbody>${rows}</tbody></table></div>
  ${pitT(g.pitch,D.opp+' 투수')}${batT(g.bat,D.opp+' 타자')}${g.ourpitch?pitT(g.ourpitch,'글로베어스 투수'):''}${g.ourbat?batT(g.ourbat,'글로베어스 타자'):''}</div></details>`}).join(''):`<div class="pc note" style="margin:0">2026년 맞대결 기록이 없습니다.</div>`;
-if(D.self){document.body.classList.add('self');const ys=document.createElement('div');ys.className='yseg';ys.innerHTML=`<button disabled aria-pressed="false">27년 · 시즌 시작 후 추가</button><button aria-pressed="true">26년 기록</button>`;document.getElementById('glinks').after(ys);document.getElementById('pitHead').textContent='글로베어스 투수 26년 기록';document.getElementById('fullHead').innerHTML=`글로베어스 타자 26년 기록 <span class="cnt">${esc(D.orderLabel||'')} · ${(D.roster||[]).length}명</span>`;['h2hHead','h2h','sbHead','sbBox','liveOpp'].forEach(i=>{const e=document.getElementById(i);if(e)e.hidden=true});const st=document.createElement('style');st.textContent='.atk{display:none}';document.head.appendChild(st);document.getElementById('title').textContent='글로베어스 선수 기록'}
+if(D.self){document.body.classList.add('self');const ys=document.createElement('div');ys.className='yseg';ys.innerHTML=`<button disabled aria-pressed="false">27년 · 시즌 시작 후 추가</button><button aria-pressed="true">26년 기록</button>`;document.getElementById('glinks').after(ys);document.getElementById('pitHead').textContent=(D.teamName||'글로베어스')+' 투수 26년 기록';document.getElementById('fullHead').innerHTML=`${esc(D.teamName||'글로베어스')} 타자 26년 기록 <span class="cnt">${esc(D.orderLabel||'')} · ${(D.roster||[]).length}명</span>`;['h2hHead','h2h','sbHead','sbBox','liveOpp'].forEach(i=>{const e=document.getElementById(i);if(e)e.hidden=true});const st=document.createElement('style');st.textContent='.atk{display:none}';document.head.appendChild(st);document.getElementById('title').textContent=(D.teamName||'글로베어스')+' 선수 기록'}
 if(typeof LV!=='undefined'&&LV&&!D.feed)liveAll();
 if(D.feed){(()=>{
 const F=D.feed,OPPRE=new RegExp(F.oppRe),$=id=>document.getElementById(id),GO='https://www.gameone.kr';

diff --git a/live13.html b/live13.html
@@ -270,7 +270,7 @@ document.getElementById('h2h').innerHTML=(D.h2h||[]).length?D.h2h.map(g=>{const 
  return`<details><summary><span>${esc(g.date)} ${esc(g.place)} · ${esc(g.score)}<span class="res ${rc}">${esc(g.result)}</span></span></summary><div class="dt">
  <div class="sb"><table><thead><tr>${hd}</tr></thead><tbody>${rows}</tbody></table></div>
  ${pitT(g.pitch,D.opp+' 투수')}${batT(g.bat,D.opp+' 타자')}${g.ourpitch?pitT(g.ourpitch,'글로베어스 투수'):''}${g.ourbat?batT(g.ourbat,'글로베어스 타자'):''}</div></details>`}).join(''):`<div class="pc note" style="margin:0">2026년 맞대결 기록이 없습니다.</div>`;
-if(D.self){document.body.classList.add('self');const ys=document.createElement('div');ys.className='yseg';ys.innerHTML=`<button disabled aria-pressed="false">27년 · 시즌 시작 후 추가</button><button aria-pressed="true">26년 기록</button>`;document.getElementById('glinks').after(ys);document.getElementById('pitHead').textContent='글로베어스 투수 26년 기록';document.getElementById('fullHead').innerHTML=`글로베어스 타자 26년 기록 <span class="cnt">${esc(D.orderLabel||'')} · ${(D.roster||[]).length}명</span>`;['h2hHead','h2h','sbHead','sbBox','liveOpp'].forEach(i=>{const e=document.getElementById(i);if(e)e.hidden=true});const st=document.createElement('style');st.textContent='.atk{display:none}';document.head.appendChild(st);document.getElementById('title').textContent='글로베어스 선수 기록'}
+if(D.self){document.body.classList.add('self');const ys=document.createElement('div');ys.className='yseg';ys.innerHTML=`<button disabled aria-pressed="false">27년 · 시즌 시작 후 추가</button><button aria-pressed="true">26년 기록</button>`;document.getElementById('glinks').after(ys);document.getElementById('pitHead').textContent=(D.teamName||'글로베어스')+' 투수 26년 기록';document.getElementById('fullHead').innerHTML=`${esc(D.teamName||'글로베어스')} 타자 26년 기록 <span class="cnt">${esc(D.orderLabel||'')} · ${(D.roster||[]).length}명</span>`;['h2hHead','h2h','sbHead','sbBox','liveOpp'].forEach(i=>{const e=document.getElementById(i);if(e)e.hidden=true});const st=document.createElement('style');st.textContent='.atk{display:none}';document.head.appendChild(st);document.getElementById('title').textContent=(D.teamName||'글로베어스')+' 선수 기록'}
 if(typeof LV!=='undefined'&&LV&&!D.feed)liveAll();
 if(D.feed){(()=>{
 const F=D.feed,OPPRE=new RegExp(F.oppRe),$=id=>document.getElementById(id),GO='https://www.gameone.kr';

diff --git a/live15.html b/live15.html
@@ -270,7 +270,7 @@ document.getElementById('h2h').innerHTML=(D.h2h||[]).length?D.h2h.map(g=>{const 
  return`<details><summary><span>${esc(g.date)} ${esc(g.place)} · ${esc(g.score)}<span class="res ${rc}">${esc(g.result)}</span></span></summary><div class="dt">
  <div class="sb"><table><thead><tr>${hd}</tr></thead><tbody>${rows}</tbody></table></div>
  ${pitT(g.pitch,D.opp+' 투수')}${batT(g.bat,D.opp+' 타자')}${g.ourpitch?pitT(g.ourpitch,'글로베어스 투수'):''}${g.ourbat?batT(g.ourbat,'글로베어스 타자'):''}</div></details>`}).join(''):`<div class="pc note" style="margin:0">2026년 맞대결 기록이 없습니다.</div>`;
-if(D.self){document.body.classList.add('self');const ys=document.createElement('div');ys.className='yseg';ys.innerHTML=`<button disabled aria-pressed="false">27년 · 시즌 시작 후 추가</button><button aria-pressed="true">26년 기록</button>`;document.getElementById('glinks').after(ys);document.getElementById('pitHead').textContent='글로베어스 투수 26년 기록';document.getElementById('fullHead').innerHTML=`글로베어스 타자 26년 기록 <span class="cnt">${esc(D.orderLabel||'')} · ${(D.roster||[]).length}명</span>`;['h2hHead','h2h','sbHead','sbBox','liveOpp'].forEach(i=>{const e=document.getElementById(i);if(e)e.hidden=true});const st=document.createElement('style');st.textContent='.atk{display:none}';document.head.appendChild(st);document.getElementById('title').textContent='글로베어스 선수 기록'}
+if(D.self){document.body.classList.add('self');const ys=document.createElement('div');ys.className='yseg';ys.innerHTML=`<button disabled aria-pressed="false">27년 · 시즌 시작 후 추가</button><button aria-pressed="true">26년 기록</button>`;document.getElementById('glinks').after(ys);document.getElementById('pitHead').textContent=(D.teamName||'글로베어스')+' 투수 26년 기록';document.getElementById('fullHead').innerHTML=`${esc(D.teamName||'글로베어스')} 타자 26년 기록 <span class="cnt">${esc(D.orderLabel||'')} · ${(D.roster||[]).length}명</span>`;['h2hHead','h2h','sbHead','sbBox','liveOpp'].forEach(i=>{const e=document.getElementById(i);if(e)e.hidden=true});const st=document.createElement('style');st.textContent='.atk{display:none}';document.head.appendChild(st);document.getElementById('title').textContent=(D.teamName||'글로베어스')+' 선수 기록'}
 if(typeof LV!=='undefined'&&LV&&!D.feed)liveAll();
 if(D.feed){(()=>{
 const F=D.feed,OPPRE=new RegExp(F.oppRe),$=id=>document.getElementById(id),GO='https://www.gameone.kr';
